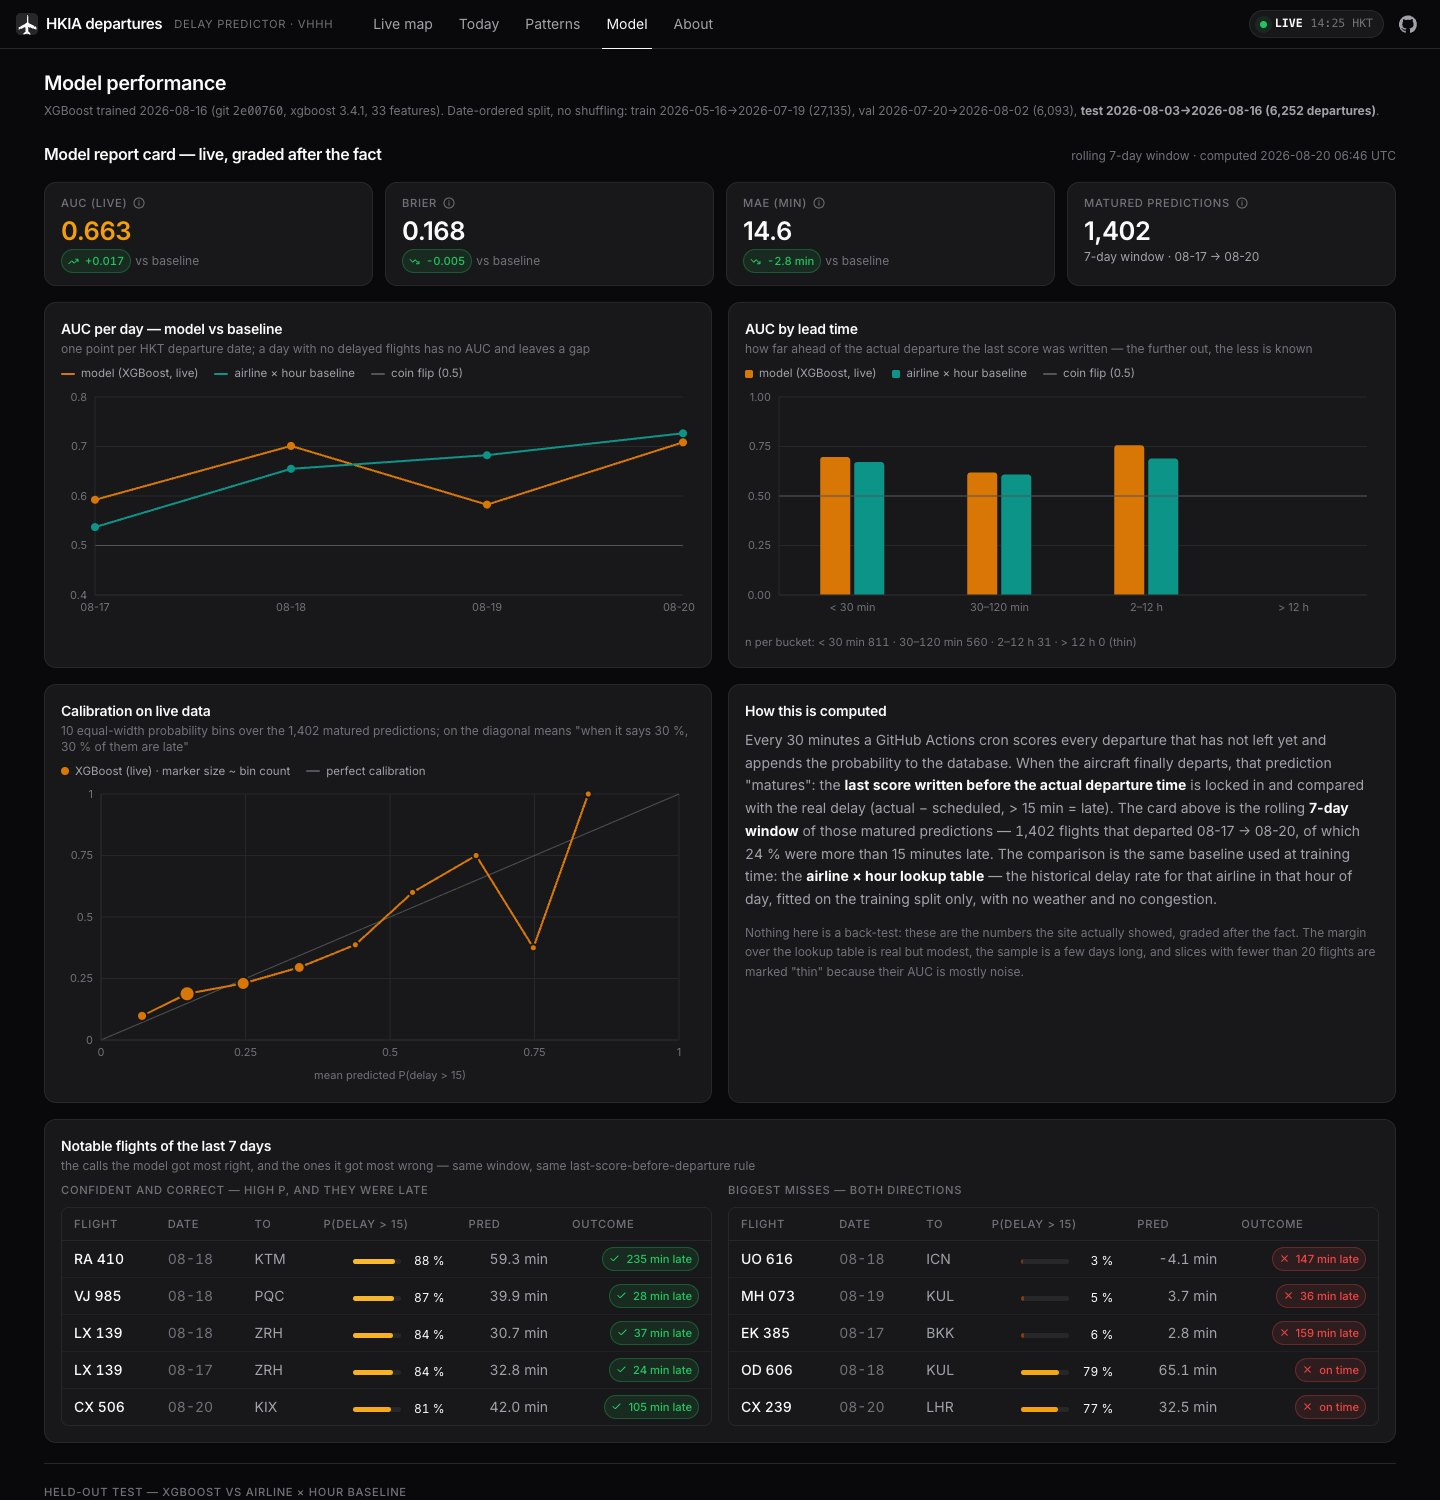
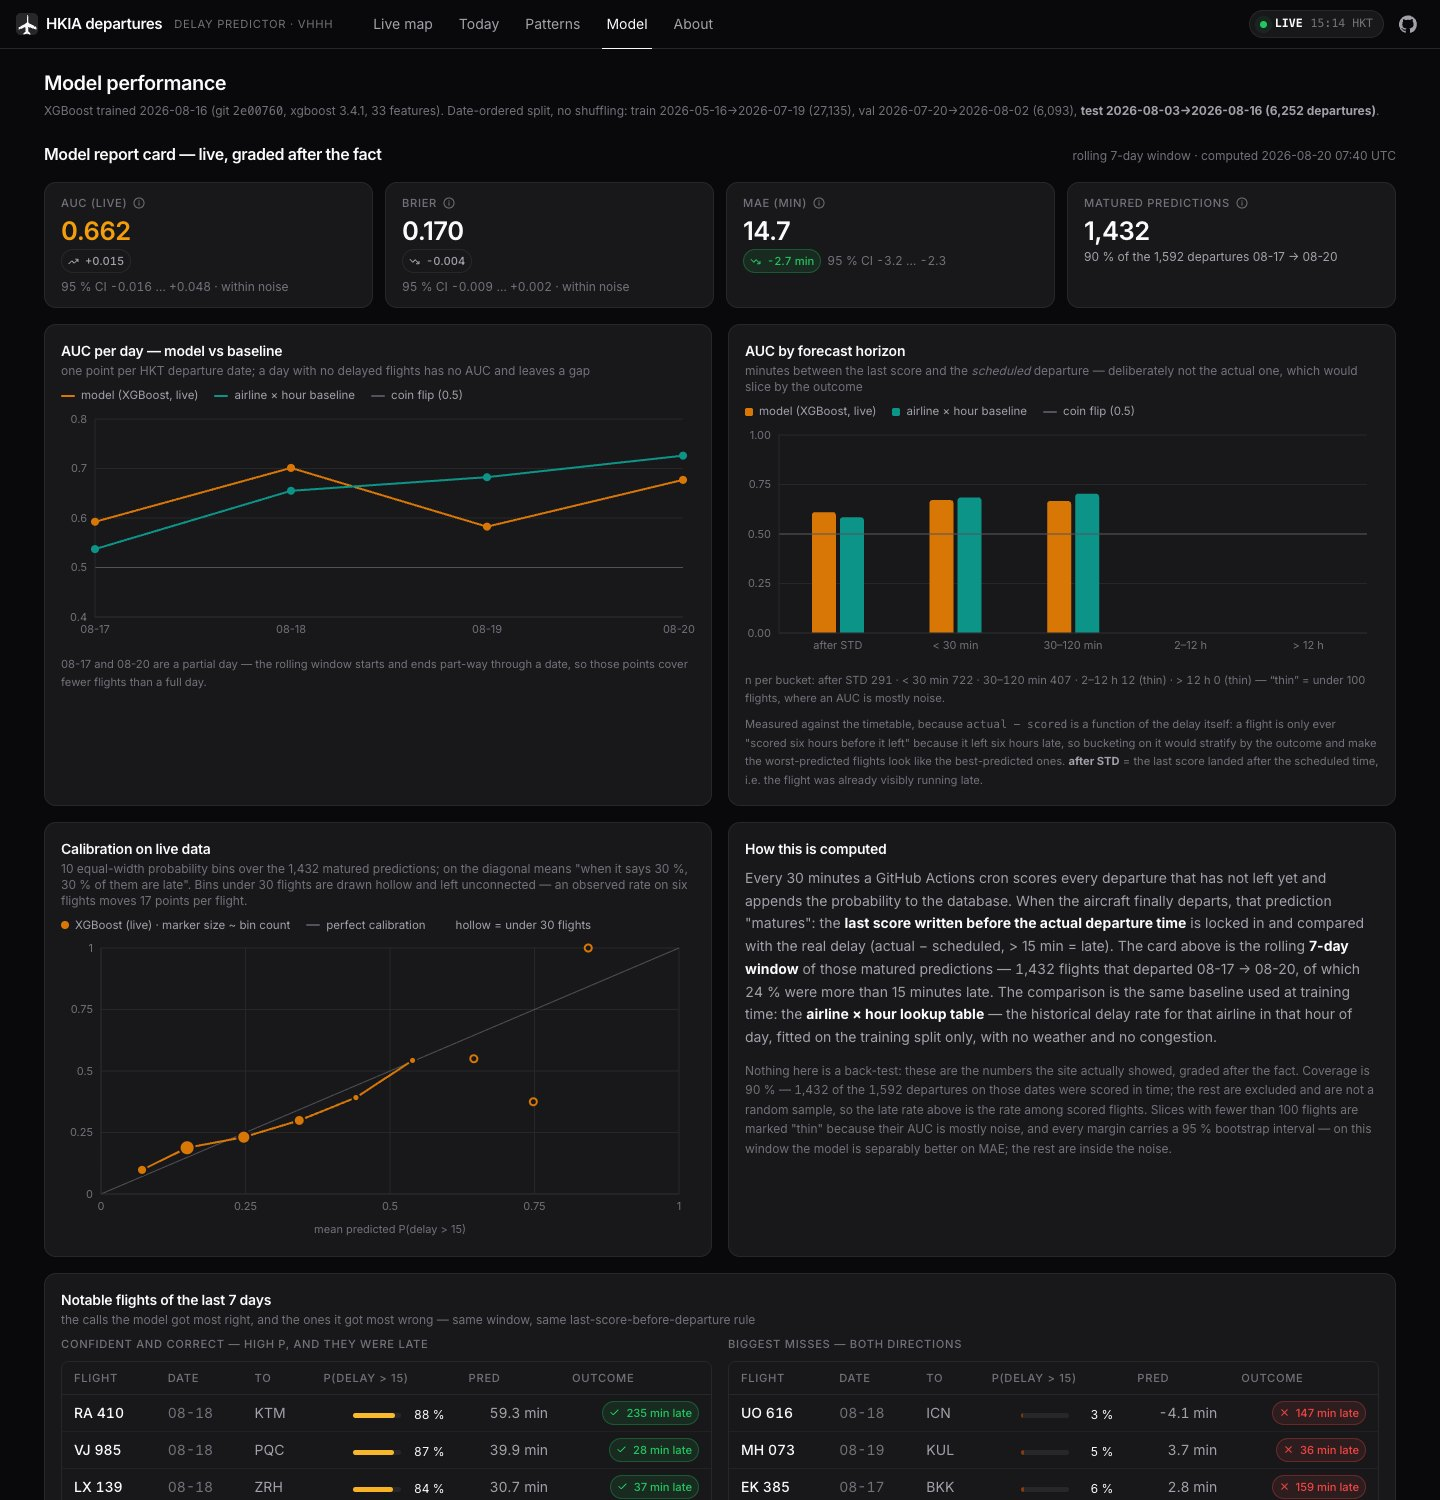
docs: deployed report-card screenshot + snapshot caveat on the README numbers
Claude-Session: https://claude.ai/code/session_01CgykXKccbF2pGzrjVKibNz

diff --git a/README.md b/README.md
@@ -2,7 +2,7 @@
 
 Predicting departure delays at Hong Kong International Airport from live flight and weather data — an ML-engineering showcase built on real, free, public data. **Live web app: https://dsjwong.github.io/hkia-delay-predictor/** (static React, GitHub Pages) · **Streamlit dashboard: https://hkia-delays.streamlit.app** (fallback) — a live aircraft map around HKIA (ADS-B) with today's departures highlighted by predicted delay, today's departures with delay predictions, 91-day delay patterns, and an honest model-performance page, refreshed automatically every ~30 minutes from GitHub Actions.
 
-> **The model grades itself in public.** Every prediction the site publishes is scored against what actually happened, and the [live report card](https://dsjwong.github.io/hkia-delay-predictor/#/model) ([Streamlit](https://hkia-delays.streamlit.app/?page=Model) · [`reports/live-eval.md`](reports/live-eval.md)) shows the result with its confidence intervals, including the parts that do not flatter it. Over the last 7 days (n = 1,402 matured predictions), the model beats the airline × hour lookup table on **delay minutes — MAE 14.6 vs 17.4, −2.8 min (95 % CI −3.3 … −2.4)** — while the classification margin, **AUC 0.663 vs 0.647 (+0.017, 95 % CI −0.013 … +0.049)**, is *not yet separable from noise* on four days of data. Not a back-test: for every flight that has since departed, the last probability the site published before it left.
+> **The model grades itself in public.** Every prediction the site publishes is scored against what actually happened, and the [live report card](https://dsjwong.github.io/hkia-delay-predictor/#/model) ([Streamlit](https://hkia-delays.streamlit.app/?page=Model) · [`reports/live-eval.md`](reports/live-eval.md)) shows the result with its confidence intervals, including the parts that do not flatter it. Over the last 7 days (n = 1,402 matured predictions), the model beats the airline × hour lookup table on **delay minutes — MAE 14.6 vs 17.4, −2.8 min (95 % CI −3.3 … −2.4)** — while the classification margin, **AUC 0.663 vs 0.647 (+0.017, 95 % CI −0.013 … +0.049)**, is *not yet separable from noise* on four days of data. Not a back-test: for every flight that has since departed, the last probability the site published before it left. (Figures here are a snapshot; the page recomputes them every 30 minutes, so treat the linked report card as the source of truth.)
 
 - **What**: for each HKIA passenger departure, predict P(delay > 15 min) / expected delay minutes, served on a public dashboard with honest evaluation numbers. v1 = departures only.
 - **Data** (3 sources, all free): Airport Authority flight info API via data.gov.hk (scheduled vs actual departure = label; ~91-day rolling history), Hong Kong Observatory open data (current readings, warnings incl. typhoon signals), METAR for VHHH from aviationweather.gov. OpenSky ADS-B is a deferred stretch.
